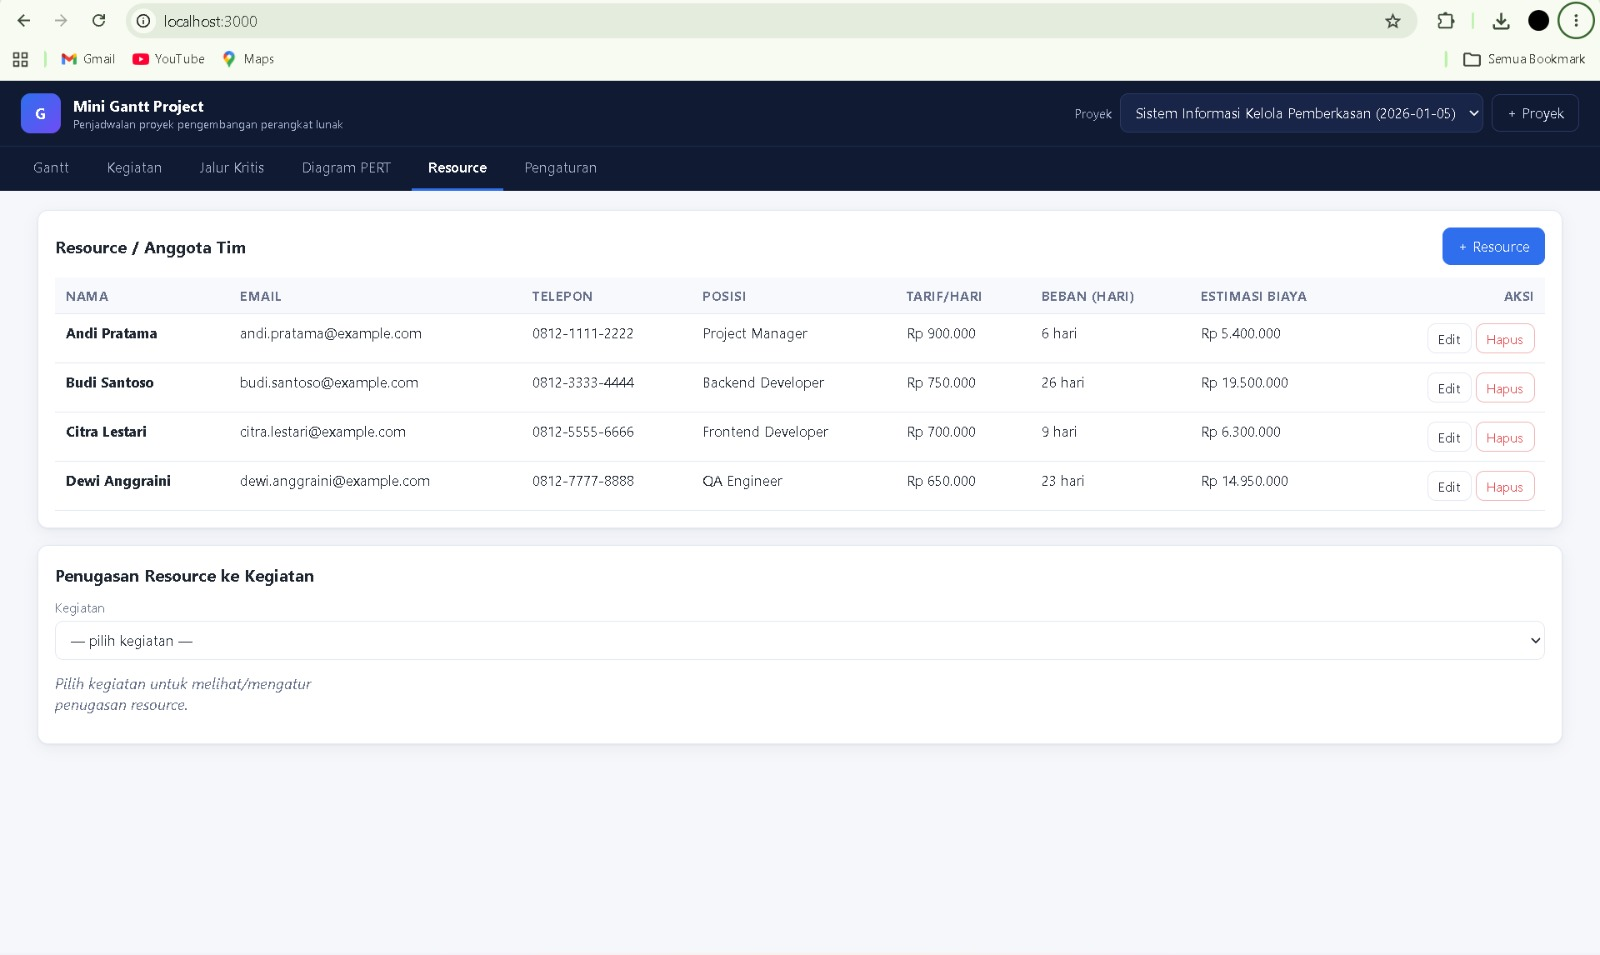
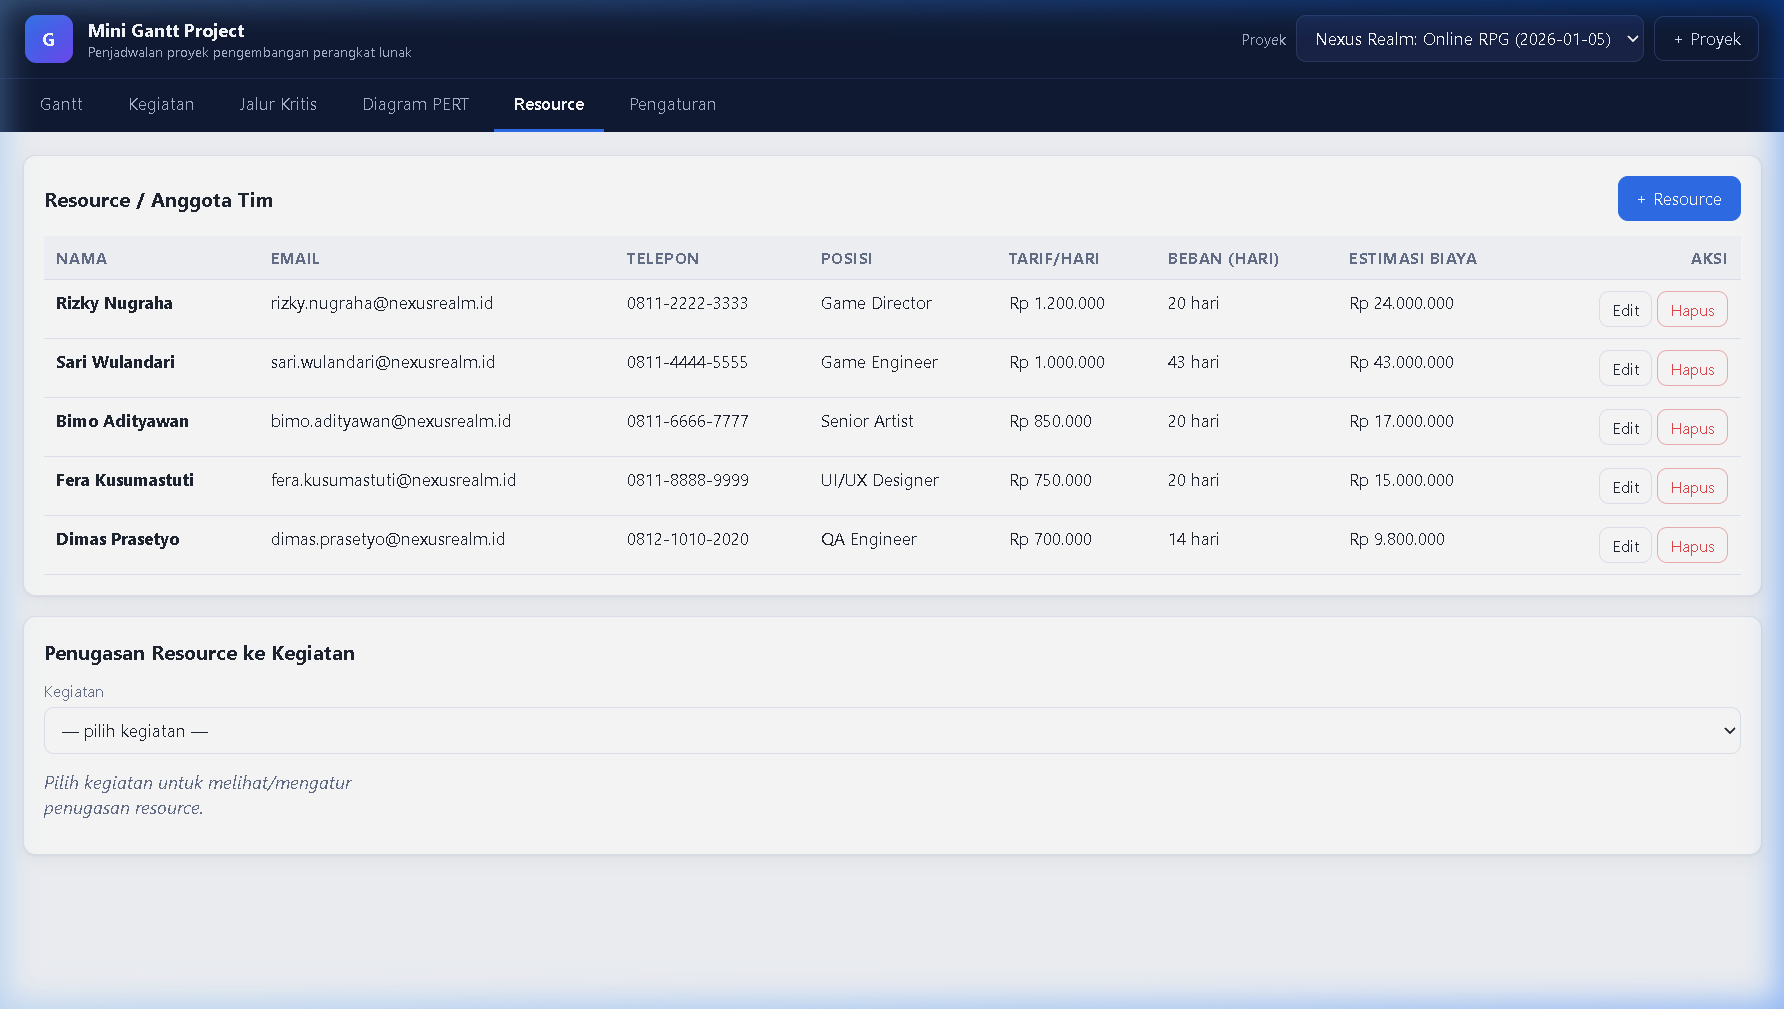
chore: ganti data contoh ke proyek Nexus Realm: Online RPG
- seed.js: ganti proyek lama 'Sistem Informasi Kelola Pemberkasan' (10 kegiatan A-J)
  dengan 'Nexus Realm: Online RPG' (15 kegiatan A-O, 5 resource tim game dev)
- Jalur kritis baru: A->D->G->J->M->N->O = 47 hari kerja (selesai 11 Mar 2026)
- Estimasi biaya total: Rp 108.800.000
- Hari libur: Imlek, Nyepi, Cuti Nyepi, Wafat Isa Almasih
- README.md: update deskripsi data contoh, tabel kegiatan, jalur kritis, dan npm seed
- docs/: ganti 6 screenshot UI dengan tampilan data Nexus Realm terbaru

diff --git a/src/seed.js b/src/seed.js
@@ -2,50 +2,80 @@
 
 /**
  * Data contoh bawaan:
- * Proyek "Sistem Informasi Kelola Pemberkasan" dengan kegiatan A..J
- * sehingga jalur kritis B-E-H-J = 2 + 7 + 21 + 3 = 33 hari.
+ * Proyek "Nexus Realm: Online RPG" — game development dengan 15 kegiatan (A..O).
+ *
+ * Jalur kritis utama: A → D → G → J → M → N → O
+ * = 3 + 8 + 10 + 12 + 5 + 4 + 5 = 47 hari kerja
  */
 
 const { openDb, all, run, DEFAULT_DB_PATH } = require('./db');
 
 const SAMPLE_PROJECT = {
-  name: 'Sistem Informasi Kelola Pemberkasan',
+  name: 'Nexus Realm: Online RPG',
   start_date: '2026-01-05', // Senin
   weekend_days: '0,6',
 };
 
 const SAMPLE_HOLIDAYS = [
-  { date: '2026-02-16', name: 'Hari Libur Nasional (contoh)' },
-  { date: '2026-03-29', name: 'Hari Libur (contoh)' },
+  { date: '2026-01-28', name: 'Tahun Baru Imlek 2577' },
+  { date: '2026-03-19', name: 'Hari Raya Nyepi' },
+  { date: '2026-03-20', name: 'Cuti Bersama Nyepi' },
+  { date: '2026-04-02', name: 'Wafat Isa Almasih' },
 ];
 
-/** [kode, nama, durasi, [[pendahulu, tipe, delay], ...]] */
+/**
+ * [kode, nama, durasi_hari_kerja, [[kode_pendahulu, tipe, delay], ...]]
+ *
+ * Struktur dependensi:
+ *  A  → D, E
+ *  B  → E, F
+ *  C  → F, H
+ *  D  → G, H
+ *  E  → G
+ *  F  → I
+ *  G  → J, K
+ *  H  → J
+ *  I  → K, L
+ *  J  → M
+ *  K  → M, L
+ *  L  → N
+ *  M  → N
+ *  N  → O
+ */
 const SAMPLE_ACTIVITIES = [
-  ['A', 'Analisis Kebutuhan', 1, []],
-  ['B', 'Perancangan Basis Data', 2, []],
-  ['C', 'Perancangan Antarmuka', 3, []],
-  ['D', 'Pengembangan Modul Input', 5, [['A', 'FS', 0]]],
-  ['E', 'Pengembangan Modul Proses', 7, [['B', 'FS', 0]]],
-  ['F', 'Pengembangan Modul Laporan', 4, [['B', 'FS', 0]]],
-  ['G', 'Integrasi Modul', 12, [['C', 'FS', 0]]],
-  ['H', 'Pengujian Integrasi', 21, [['D', 'FS', 0], ['E', 'FS', 0]]],
-  ['I', 'Penyusunan Dokumentasi', 2, [['G', 'FS', 0]]],
-  ['J', 'Implementasi dan Serah Terima', 3, [['H', 'FS', 0], ['F', 'FS', 0], ['I', 'FS', 0]]],
+  // kode  nama                                    dur  pendahulu
+  ['A', 'Game Design Document (GDD)',               3,  []],
+  ['B', 'Riset Pasar & Analisis Kompetitor',        2,  []],
+  ['C', 'Desain Karakter & Aset Visual',            5,  []],
+  ['D', 'Arsitektur Game Engine & Server',          8,  [['A', 'FS', 0]]],
+  ['E', 'Desain Mekanik Gameplay',                  6,  [['A', 'FS', 0], ['B', 'FS', 0]]],
+  ['F', 'Desain UI/UX & HUD',                      4,  [['B', 'FS', 0], ['C', 'FS', 1]]],
+  ['G', 'Pengembangan Core Engine',                10,  [['D', 'FS', 0], ['E', 'FS', 0]]],
+  ['H', 'Pembuatan Aset 3D & Animasi',              9,  [['C', 'FS', 0], ['D', 'SS', 2]]],
+  ['I', 'Pengembangan UI Front-End',               5,  [['F', 'FS', 0]]],
+  ['J', 'Pengembangan Sistem Multiplayer',         12,  [['G', 'FS', 0], ['H', 'FS', 0]]],
+  ['K', 'Integrasi Aset ke Engine',                6,  [['G', 'FS', 0], ['I', 'FS', 0]]],
+  ['L', 'Pengembangan Backend & Database',          8,  [['I', 'FS', 0], ['K', 'SS', 2]]],
+  ['M', 'Quality Assurance & Bug Fixing',           5,  [['J', 'FS', 0], ['K', 'FS', 0]]],
+  ['N', 'Beta Test & Optimasi Performa',            4,  [['L', 'FS', 0], ['M', 'FS', 0]]],
+  ['O', 'Rilis & Deployment ke Platform',           5,  [['N', 'FS', 0]]],
 ];
 
 const SAMPLE_RESOURCES = [
-  ['Andi Pratama', 'andi.pratama@example.com', '0812-1111-2222', 'Project Manager', 900000],
-  ['Budi Santoso', 'budi.santoso@example.com', '0812-3333-4444', 'Backend Developer', 750000],
-  ['Citra Lestari', 'citra.lestari@example.com', '0812-5555-6666', 'Frontend Developer', 700000],
-  ['Dewi Anggraini', 'dewi.anggraini@example.com', '0812-7777-8888', 'QA Engineer', 650000],
+  ['Rizky Nugraha',    'rizky.nugraha@nexusrealm.id',    '0811-2222-3333', 'Game Director',        1200000],
+  ['Sari Wulandari',   'sari.wulandari@nexusrealm.id',   '0811-4444-5555', 'Game Engineer',        1000000],
+  ['Bimo Adityawan',   'bimo.adityawan@nexusrealm.id',   '0811-6666-7777', 'Senior Artist',         850000],
+  ['Fera Kusumastuti', 'fera.kusumastuti@nexusrealm.id', '0811-8888-9999', 'UI/UX Designer',        750000],
+  ['Dimas Prasetyo',   'dimas.prasetyo@nexusrealm.id',   '0812-1010-2020', 'QA Engineer',           700000],
 ];
 
-/** resource name -> kode kegiatan yang ditugaskan */
+/** resource name → kode kegiatan yang ditugaskan */
 const SAMPLE_ASSIGNMENTS = [
-  ['Andi Pratama', ['A', 'B', 'J']],
-  ['Budi Santoso', ['B', 'D', 'E', 'G']],
-  ['Citra Lestari', ['C', 'F', 'I']],
-  ['Dewi Anggraini', ['H', 'I']],
+  ['Rizky Nugraha',    ['A', 'B', 'E', 'N', 'O']],
+  ['Sari Wulandari',   ['D', 'G', 'J', 'L', 'M']],
+  ['Bimo Adityawan',   ['C', 'H', 'K']],
+  ['Fera Kusumastuti', ['C', 'F', 'I', 'K']],
+  ['Dimas Prasetyo',   ['M', 'N', 'O']],
 ];
 
 function tableCount(db, table) {
@@ -151,10 +181,10 @@ if (require.main === module) {
   const action = process.argv.includes('--reset') ? 'reset' : 'seed';
   if (action === 'reset') {
     seedSample(db);
-    console.log('Database di-reset dan diisi ulang dengan data contoh (kegiatan A..J).');
+    console.log('Database di-reset dan diisi ulang dengan data contoh: Nexus Realm: Online RPG (kegiatan A..O, 15 kegiatan).');
   } else {
     const res = seedIfEmpty(db);
-    console.log(res.seeded ? 'Data contoh dimasukkan.' : 'Database sudah berisi, tidak ada perubahan.');
+    console.log(res.seeded ? 'Data contoh Nexus Realm dimasukkan.' : 'Database sudah berisi, tidak ada perubahan.');
   }
   db.close();
 }

diff --git a/README.md b/README.md
@@ -59,8 +59,8 @@ npm start
 Buka **http://localhost:3000** di browser.
 
 > Pada saat pertama dijalankan, database SQLite dibuat otomatis di `data/mini-gantt.db`
-> dan **data contoh** dimasukkan: proyek **"Sistem Informasi Kelola Pemberkasan"**
-> dengan kegiatan **A–J** sehingga jalur kritis **B-E-H-J = 33 hari**.
+> dan **data contoh** dimasukkan: proyek **"Nexus Realm: Online RPG"**
+> dengan **15 kegiatan (A–O)** sehingga jalur kritis **A→D→G→J→M→N→O = 47 hari kerja**.
 >
 > Untuk mengembalikan data contoh kapan pun: `npm run seed`
 > (me-reset seluruh isi database). Untuk memakai database lain: set env `DB_PATH`, port: `PORT`.
@@ -72,7 +72,7 @@ Buka **http://localhost:3000** di browser.
 | `npm start`     | Jalankan server (default port 3000)                 |
 | `npm run dev`   | Jalankan server dengan auto-reload (`--watch`)      |
 | `npm test`      | Jalankan seluruh unit test (`node --test`)          |
-| `npm run seed`  | Reset & isi ulang data contoh A–J                   |
+| `npm run seed`  | Reset & isi ulang data contoh A–O                   |
 
 ---
 
@@ -90,7 +90,7 @@ Buka **http://localhost:3000** di browser.
 5. **Critical path** — tabel **semua jalur** (urutan, durasi per node, total estimasi)
    dengan penanda jalur kritis; float/total juga tampil di tabel kegiatan & Gantt.
 6. **Diagram PERT** — node (kegiatan) dan panah (FS/SS + delay) terstruktur per tahap.
-7. **Data contoh bawaan** — kegiatan A–J, jalur kritis **B-E-H-J = 33 hari**.
+7. **Data contoh bawaan** — 15 kegiatan A–O, jalur kritis **A→D→G→J→M→N→O = 47 hari**.
 8. **Validasi input, penanganan error, dan deteksi dependensi melingkar** (ditolak HTTP 400
    lengkap dengan urutan siklusnya).
 9. **Unit test** untuk perhitungan critical path, kalender kerja, dan API.
@@ -99,23 +99,29 @@ Buka **http://localhost:3000** di browser.
 
 ## Data contoh (bawaan)
 
-Proyek: **Sistem Informasi Kelola Pemberkasan** — mulai **5 Jan 2026** (Senin), weekend Sabtu & Minggu.
+Proyek: **Nexus Realm: Online RPG** — mulai **5 Jan 2026** (Senin), weekend Sabtu & Minggu.
+Hari libur: Tahun Baru Imlek (28 Jan), Nyepi (19–20 Mar), Wafat Isa Almasih (2 Apr).
 
-| Kode | Kegiatan                         | Durasi | Pendahulu        |
-|------|----------------------------------|--------|------------------|
-| A    | Analisis Kebutuhan               | 1      | -                |
-| B    | Perancangan Basis Data           | 2      | -                |
-| C    | Perancangan Antarmuka            | 3      | -                |
-| D    | Pengembangan Modul Input         | 5      | A (FS)           |
-| E    | Pengembangan Modul Proses        | 7      | B (FS)           |
-| F    | Pengembangan Modul Laporan       | 4      | B (FS)           |
-| G    | Integrasi Modul                  | 12     | C (FS)           |
-| H    | Pengujian Integrasi              | 21     | D, E (FS)        |
-| I    | Penyusunan Dokumentasi           | 2      | G (FS)           |
-| J    | Implementasi dan Serah Terima    | 3      | H, F, I (FS)     |
+| Kode | Kegiatan                           | Durasi | Pendahulu              |
+|------|------------------------------------|--------|------------------------|
+| A    | Game Design Document (GDD)         | 3      | —                      |
+| B    | Riset Pasar & Analisis Kompetitor  | 2      | —                      |
+| C    | Desain Karakter & Aset Visual      | 5      | —                      |
+| D    | Arsitektur Game Engine & Server    | 8      | A (FS)                 |
+| E    | Desain Mekanik Gameplay            | 6      | A, B (FS)              |
+| F    | Desain UI/UX & HUD                 | 4      | B (FS), C (FS+1)       |
+| G    | Pengembangan Core Engine           | 10     | D, E (FS)              |
+| H    | Pembuatan Aset 3D & Animasi        | 9      | C (FS), D (SS+2)       |
+| I    | Pengembangan UI Front-End          | 5      | F (FS)                 |
+| J    | Pengembangan Sistem Multiplayer    | 12     | G, H (FS)              |
+| K    | Integrasi Aset ke Engine           | 6      | G, I (FS)              |
+| L    | Pengembangan Backend & Database    | 8      | I (FS), K (SS+2)       |
+| M    | Quality Assurance & Bug Fixing     | 5      | J, K (FS)              |
+| N    | Beta Test & Optimasi Performa      | 4      | L, M (FS)              |
+| O    | Rilis & Deployment ke Platform     | 5      | N (FS)                 |
 
-**Jalur kritis: B → E → H → J = 2 + 7 + 21 + 3 = 33 hari kerja.**
-Empat jalur sumber→akhir ditemukan: `B-E-H-J (33)`, `A-D-H-J (30)`, `C-G-I-J (20)`, `B-F-J (9)`.
+**Jalur kritis: A → D → G → J → M → N → O = 3+8+10+12+5+4+5 = 47 hari kerja.**
+Proyek selesai estimasi: **11 Maret 2026**. Estimasi biaya total: **Rp 108.800.000**.
 
 ---
 
